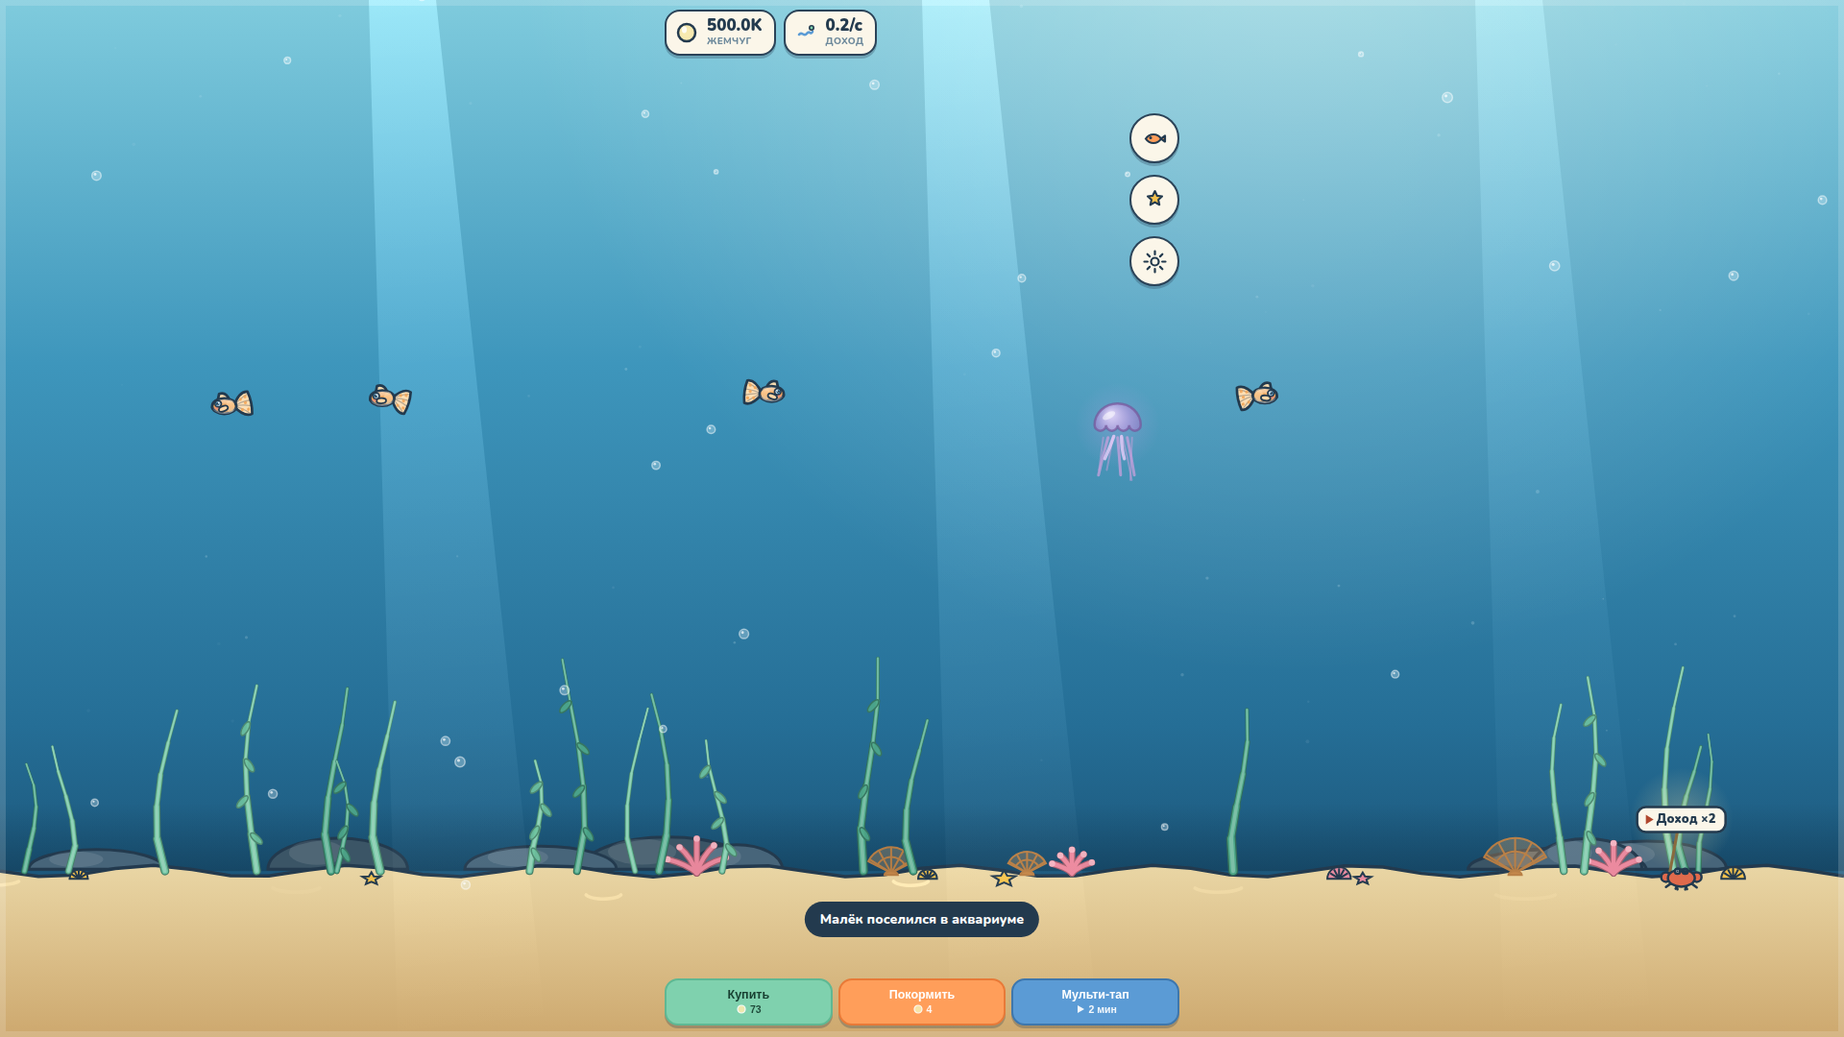
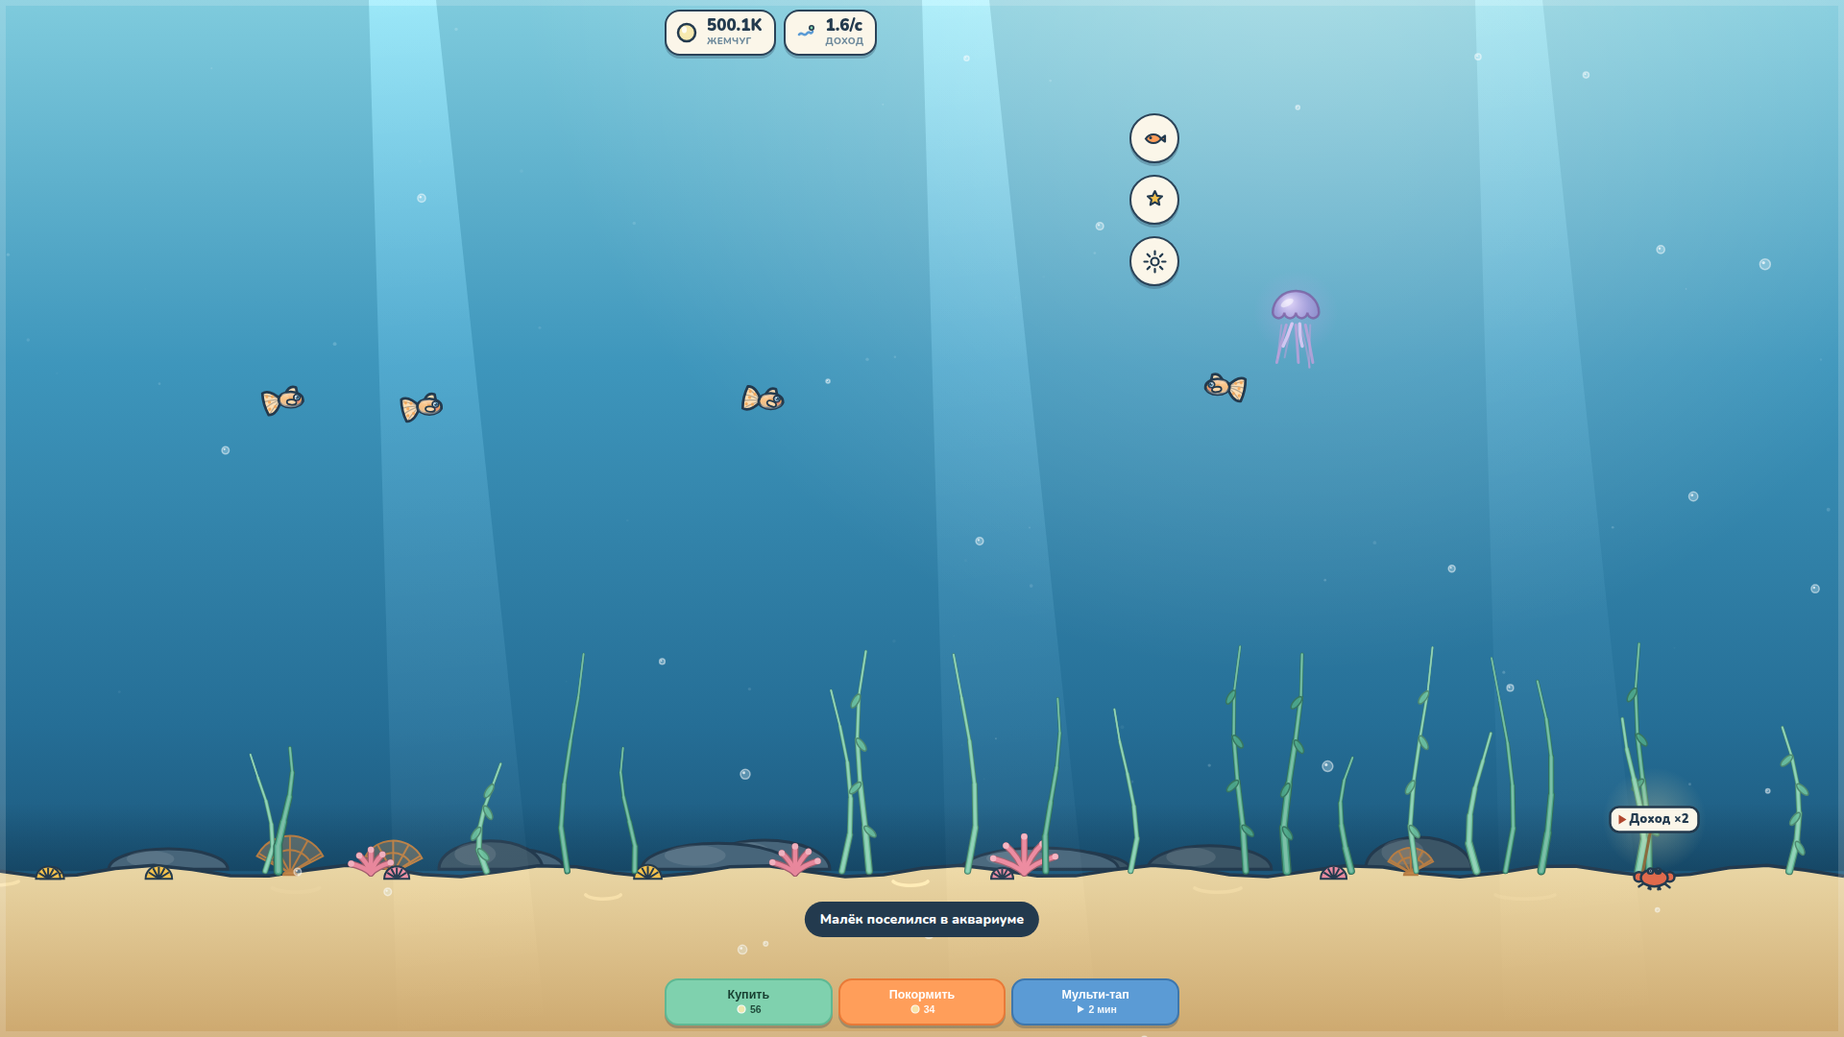
Аквариум: мягкая шкала ценности и офлайн-доход
- ценность видов растёт ×1.2 за ступень вместо ×1.6: гуппи даёт 10 за
  тап, иглобрюх ~1978 — числа остаются читаемыми и не уходят в миллионы
  (было 1 … 2 270 000). Цена малька пересчитана под новую шкалу:
  40 × 1.55^вид × 1.12^куплено
- пассивный доход теперь копится, пока игра закрыта: при возвращении
  начисляется накопленное за время отсутствия с потолком в 4 часа,
  игрок видит тост «Пока вас не было, рыбки накопили: +N»
- сейв форсится при сворачивании вкладки и уходе со страницы, чтобы
  момент выхода фиксировался точно
- тесты (60 проверок) покрывают мягкость шкалы, начисление за 2 часа
  и срабатывание потолка; тексты карточки обновлены

Мерж остаётся смыслом игры: это единственный способ ОТКРЫТЬ новый вид,
докупать в магазине можно только уже открытые.

Claude-Session: https://claude.ai/code/session_01E1W4bJFq3d3FdtAVHT6PQt

diff --git a/index.html b/index.html
@@ -184,7 +184,7 @@
 // ============================================================
 const SAVE_KEY = "cozy_aquarium_v1";        // GAME: уникальный ключ сейва
 const LB_NAME  = "species";                  // техимя лидерборда (рекорд = число видов)
-let ysdk=null, player=null, lb=null, saveT=0, booted=false;
+let ysdk=null, player=null, lb=null, saveT=0, booted=false, offlineGain=0;
 
 // ---------- i18n (авто-язык через SDK, урок модерации п.2.14) ----------
 function lang(){
@@ -226,6 +226,7 @@ const STR = {
   upPlant:{ru:"Водоросли",en:"Water plants"}, upPlantD:{ru:"−5% к цене мальков",en:"−5% fry price"},
   ipsUnit:{ru:"ж/с",en:"p/s"},
   daily:{ru:"Ежедневный подарок:",en:"Daily gift:"},
+  offline:{ru:"Пока вас не было, рыбки накопили:",en:"While you were away the fish earned:"},
   x2got:{ru:"Доход удвоен на 5 минут!",en:"Income doubled for 5 min!"},
   cooldown:{ru:"Ещё рано — подожди",en:"Not ready yet"},
 };
@@ -238,36 +239,36 @@ const LEVELS = [
   // beh — характер: dart (снуёт), school (стайная), calm, slow, hover (зависает),
   // bottom (у дна), glass (ползёт по дну/стеклу), drift (медленно дрейфует)
   // depth — любимая глубина 0 (у поверхности) .. 1 (у дна)
-  {ru:'Гуппи',            en:'Guppy',            c1:'#F2A65A', c2:'#FFDDAF', shape:'guppy',   beh:'calm',   depth:0.25, tap:1,       grow:5},
-  {ru:'Кардинал',         en:'White Cloud',      c1:'#8FB6C9', c2:'#F2846A', shape:'danio',   beh:'school', depth:0.30, tap:2,       grow:7},
-  {ru:'Неон',             en:'Neon Tetra',       c1:'#3BA7D6', c2:'#F25C69', shape:'neon',    beh:'school', depth:0.38, tap:4,       grow:9},
-  {ru:'Данио-рерио',      en:'Zebra Danio',      c1:'#C9D6E0', c2:'#3E6E9E', shape:'danio',   beh:'dart',   depth:0.20, tap:7,       grow:11},
-  {ru:'Пецилия',          en:'Platy',            c1:'#F2762E', c2:'#FFCF9E', shape:'guppy',   beh:'calm',   depth:0.35, tap:12,      grow:13},
-  {ru:'Меченосец',        en:'Swordtail',        c1:'#E8453C', c2:'#FFD9A0', shape:'sword',   beh:'calm',   depth:0.32, tap:20,      grow:16},
-  {ru:'Моллинезия',       en:'Molly',            c1:'#4A4A57', c2:'#9AA0AC', shape:'molly',   beh:'calm',   depth:0.40, tap:34,      grow:19},
-  {ru:'Тернеция',         en:'Black Tetra',      c1:'#6B6E82', c2:'#2E3140', shape:'tetra',   beh:'school', depth:0.42, tap:56,      grow:22},
-  {ru:'Расбора',          en:'Harlequin Rasbora',c1:'#E4A05C', c2:'#3A2F44', shape:'tetra',   beh:'school', depth:0.34, tap:92,      grow:25},
-  {ru:'Барбус',           en:'Tiger Barb',       c1:'#E8B44A', c2:'#2E2A33', shape:'barb',    beh:'dart',   depth:0.45, tap:150,     grow:29},
-  {ru:'Золотая рыбка',    en:'Goldfish',         c1:'#FF8C42', c2:'#FFC38A', shape:'gold',    beh:'slow',   depth:0.50, tap:245,     grow:33},
-  {ru:'Гурами',           en:'Pearl Gourami',    c1:'#B9A7C4', c2:'#E8D6B0', shape:'gourami', beh:'slow',   depth:0.30, tap:400,     grow:38},
-  {ru:'Петушок',          en:'Betta',            c1:'#C2384F', c2:'#5B7FD1', shape:'betta',   beh:'hover',  depth:0.28, tap:650,     grow:43},
-  {ru:'Коридорас',        en:'Corydoras',        c1:'#C4B49A', c2:'#6E5F4E', shape:'cory',    beh:'bottom', depth:0.95, tap:1050,    grow:48},
-  {ru:'Анциструс',        en:'Bristlenose Pleco',c1:'#4E4A42', c2:'#8C8578', shape:'pleco',   beh:'glass',  depth:0.97, tap:1700,    grow:54},
-  {ru:'Боция-клоун',      en:'Clown Loach',      c1:'#F2A03C', c2:'#2E2A33', shape:'loach',   beh:'bottom', depth:0.88, tap:2750,    grow:60},
-  {ru:'Апистограмма',     en:'Apistogramma',     c1:'#F2C14E', c2:'#3E7CC4', shape:'cichlid', beh:'calm',   depth:0.62, tap:4400,    grow:67},
-  {ru:'Скалярия',         en:'Angelfish',        c1:'#F0E6C4', c2:'#4A6377', shape:'angel',   beh:'slow',   depth:0.45, tap:7100,    grow:74},
-  {ru:'Дискус',           en:'Discus',           c1:'#E8734A', c2:'#3E7CC4', shape:'discus',  beh:'slow',   depth:0.50, tap:11500,   grow:82},
-  {ru:'Цихлида-попугай',  en:'Blood Parrot',     c1:'#F2603C', c2:'#FFB08A', shape:'parrot',  beh:'calm',   depth:0.58, tap:18500,   grow:90},
-  {ru:'Оскар',            en:'Oscar',            c1:'#3E3A38', c2:'#E8873C', shape:'oscar',   beh:'slow',   depth:0.60, tap:30000,   grow:99},
-  {ru:'Сомик-таракатум',  en:'Hoplo Catfish',    c1:'#8A7358', c2:'#CBB89B', shape:'cat',     beh:'bottom', depth:0.92, tap:48000,   grow:108},
-  {ru:'Рыба-клоун',       en:'Clownfish',        c1:'#FF7A2E', c2:'#FFFFFF', shape:'clown',   beh:'hover',  depth:0.55, tap:78000,   grow:118},
-  {ru:'Рыба-хирург',      en:'Blue Tang',        c1:'#3E7CC4', c2:'#F2C14E', shape:'tang',    beh:'calm',   depth:0.48, tap:126000,  grow:128},
-  {ru:'Рыба-бабочка',     en:'Butterflyfish',    c1:'#F2D24E', c2:'#2E3140', shape:'butterfly',beh:'calm',  depth:0.40, tap:205000,  grow:139},
-  {ru:'Мавританский идол',en:'Moorish Idol',     c1:'#F5F0DC', c2:'#2E3140', shape:'idol',    beh:'drift',  depth:0.44, tap:330000,  grow:150},
-  {ru:'Рыба-ангел',       en:'Emperor Angelfish',c1:'#3B5EA8', c2:'#F2C14E', shape:'emperor', beh:'slow',   depth:0.52, tap:535000,  grow:162},
-  {ru:'Спинорог',         en:'Triggerfish',      c1:'#4E8C7A', c2:'#F2E2B0', shape:'trigger', beh:'dart',   depth:0.56, tap:865000,  grow:175},
-  {ru:'Крылатка',         en:'Lionfish',         c1:'#C4442E', c2:'#F5EAD6', shape:'lion',    beh:'hover',  depth:0.66, tap:1400000, grow:188},
-  {ru:'Иглобрюх',         en:'Pufferfish',       c1:'#C7D66B', c2:'#EEF5C6', shape:'puffer',  beh:'drift',  depth:0.70, tap:2270000, grow:200},
+  {ru:'Гуппи',            en:'Guppy',            c1:'#F2A65A', c2:'#FFDDAF', shape:'guppy',   beh:'calm',   depth:0.25, tap:10,        grow:5},
+  {ru:'Кардинал',         en:'White Cloud',      c1:'#8FB6C9', c2:'#F2846A', shape:'danio',   beh:'school', depth:0.30, tap:12,        grow:7},
+  {ru:'Неон',             en:'Neon Tetra',       c1:'#3BA7D6', c2:'#F25C69', shape:'neon',    beh:'school', depth:0.38, tap:14,        grow:9},
+  {ru:'Данио-рерио',      en:'Zebra Danio',      c1:'#C9D6E0', c2:'#3E6E9E', shape:'danio',   beh:'dart',   depth:0.20, tap:17,        grow:11},
+  {ru:'Пецилия',          en:'Platy',            c1:'#F2762E', c2:'#FFCF9E', shape:'guppy',   beh:'calm',   depth:0.35, tap:21,        grow:13},
+  {ru:'Меченосец',        en:'Swordtail',        c1:'#E8453C', c2:'#FFD9A0', shape:'sword',   beh:'calm',   depth:0.32, tap:25,        grow:16},
+  {ru:'Моллинезия',       en:'Molly',            c1:'#4A4A57', c2:'#9AA0AC', shape:'molly',   beh:'calm',   depth:0.40, tap:30,        grow:19},
+  {ru:'Тернеция',         en:'Black Tetra',      c1:'#6B6E82', c2:'#2E3140', shape:'tetra',   beh:'school', depth:0.42, tap:36,        grow:22},
+  {ru:'Расбора',          en:'Harlequin Rasbora',c1:'#E4A05C', c2:'#3A2F44', shape:'tetra',   beh:'school', depth:0.34, tap:43,        grow:25},
+  {ru:'Барбус',           en:'Tiger Barb',       c1:'#E8B44A', c2:'#2E2A33', shape:'barb',    beh:'dart',   depth:0.45, tap:52,        grow:29},
+  {ru:'Золотая рыбка',    en:'Goldfish',         c1:'#FF8C42', c2:'#FFC38A', shape:'gold',    beh:'slow',   depth:0.50, tap:62,        grow:33},
+  {ru:'Гурами',           en:'Pearl Gourami',    c1:'#B9A7C4', c2:'#E8D6B0', shape:'gourami', beh:'slow',   depth:0.30, tap:74,        grow:38},
+  {ru:'Петушок',          en:'Betta',            c1:'#C2384F', c2:'#5B7FD1', shape:'betta',   beh:'hover',  depth:0.28, tap:89,        grow:43},
+  {ru:'Коридорас',        en:'Corydoras',        c1:'#C4B49A', c2:'#6E5F4E', shape:'cory',    beh:'bottom', depth:0.95, tap:107,        grow:48},
+  {ru:'Анциструс',        en:'Bristlenose Pleco',c1:'#4E4A42', c2:'#8C8578', shape:'pleco',   beh:'glass',  depth:0.97, tap:128,        grow:54},
+  {ru:'Боция-клоун',      en:'Clown Loach',      c1:'#F2A03C', c2:'#2E2A33', shape:'loach',   beh:'bottom', depth:0.88, tap:154,        grow:60},
+  {ru:'Апистограмма',     en:'Apistogramma',     c1:'#F2C14E', c2:'#3E7CC4', shape:'cichlid', beh:'calm',   depth:0.62, tap:185,        grow:67},
+  {ru:'Скалярия',         en:'Angelfish',        c1:'#F0E6C4', c2:'#4A6377', shape:'angel',   beh:'slow',   depth:0.45, tap:222,        grow:74},
+  {ru:'Дискус',           en:'Discus',           c1:'#E8734A', c2:'#3E7CC4', shape:'discus',  beh:'slow',   depth:0.50, tap:266,        grow:82},
+  {ru:'Цихлида-попугай',  en:'Blood Parrot',     c1:'#F2603C', c2:'#FFB08A', shape:'parrot',  beh:'calm',   depth:0.58, tap:319,        grow:90},
+  {ru:'Оскар',            en:'Oscar',            c1:'#3E3A38', c2:'#E8873C', shape:'oscar',   beh:'slow',   depth:0.60, tap:383,        grow:99},
+  {ru:'Сомик-таракатум',  en:'Hoplo Catfish',    c1:'#8A7358', c2:'#CBB89B', shape:'cat',     beh:'bottom', depth:0.92, tap:460,        grow:108},
+  {ru:'Рыба-клоун',       en:'Clownfish',        c1:'#FF7A2E', c2:'#FFFFFF', shape:'clown',   beh:'hover',  depth:0.55, tap:552,        grow:118},
+  {ru:'Рыба-хирург',      en:'Blue Tang',        c1:'#3E7CC4', c2:'#F2C14E', shape:'tang',    beh:'calm',   depth:0.48, tap:662,        grow:128},
+  {ru:'Рыба-бабочка',     en:'Butterflyfish',    c1:'#F2D24E', c2:'#2E3140', shape:'butterfly',beh:'calm',  depth:0.40, tap:795,        grow:139},
+  {ru:'Мавританский идол',en:'Moorish Idol',     c1:'#F5F0DC', c2:'#2E3140', shape:'idol',    beh:'drift',  depth:0.44, tap:954,        grow:150},
+  {ru:'Рыба-ангел',       en:'Emperor Angelfish',c1:'#3B5EA8', c2:'#F2C14E', shape:'emperor', beh:'slow',   depth:0.52, tap:1145,        grow:162},
+  {ru:'Спинорог',         en:'Triggerfish',      c1:'#4E8C7A', c2:'#F2E2B0', shape:'trigger', beh:'dart',   depth:0.56, tap:1374,        grow:175},
+  {ru:'Крылатка',         en:'Lionfish',         c1:'#C4442E', c2:'#F5EAD6', shape:'lion',    beh:'hover',  depth:0.66, tap:1648,        grow:188},
+  {ru:'Иглобрюх',         en:'Pufferfish',       c1:'#C7D66B', c2:'#EEF5C6', shape:'puffer',  beh:'drift',  depth:0.70, tap:1978,        grow:200},
 ];
 const MAXLVL = LEVELS.length-1;
 const LV = l => LEVELS[Math.max(0,Math.min(MAXLVL,l))];
@@ -296,6 +297,7 @@ const x2On      = () => Date.now() < S.x2Until;
 const multiOn   = () => Date.now() < S.multiUntil;
 const MULTI_MS  = 120000;                                // мульти-тап: 2 минуты после рекламы
 
+const OFFLINE_CAP = 4*3600;                              // офлайн-доход копится максимум за 4 часа
 const SAT_FULL  = 0.75;                                  // порог «сыта» — с него идёт ×2
 const SAT_DECAY = 0.0016;                                // сытость/сек: ×2 живёт ~2.5 мин, тает ~10 мин
 const EAT_CD    = 0.9;                                   // рыбка ест не чаще раза в 0.9 c
@@ -316,7 +318,7 @@ const ips       = () => ipsBase() * aerMult() * (x2On()?2:1);
 // цена малька растёт с каждой покупкой — главный сдерживающий фактор прогресса
 const priceMult = () => Math.max(0.5, 1 - 0.05*S.plant);
 // цена рыбы уровня L: дороже, чем получить её мержем — покупка это ускорение, а не замена
-const fishCostAt = lvl => Math.max(1, Math.floor(30 * Math.pow(1.85, lvl) * Math.pow(1.35, Math.max(0,S.bought-1)) * priceMult()));
+const fishCostAt = lvl => Math.max(1, Math.floor(40 * Math.pow(1.55, lvl) * Math.pow(1.12, Math.max(0,S.bought-1)) * priceMult()));
 const fishCost  = () => fishCostAt(0);
 const unlocked  = lvl => S.seen.includes(lvl);   // открытые виды доступны в магазине
 const foodCost  = () => Math.max(3, Math.ceil(tapBase()*0.85));
@@ -369,6 +371,9 @@ function restore(raw){
     }
     f.sat=Math.max(0, f.sat-SAT_DECAY*off);
   });
+  // офлайн-доход: рыбки приносили жемчуг, пока игра была закрыта (не дольше 4 часов)
+  offlineGain = Math.floor(ipsBase()*aerMult()*Math.min(off, OFFLINE_CAP));
+  if(offlineGain>0) S.coins += offlineGain;
   // старый сейв без обучения: опытному игроку обучение не показываем
   if(typeof S.tut!=='number') S.tut=(S.tank.length>1||S.coins>50)?3:0;
 }
@@ -409,8 +414,8 @@ function onFocusChange(hidden){
   if(hidden){ pauseAudio(); gameplayStop(); }
   else { resumeAudio(); gameplayStart(); }
 }
-document.addEventListener('visibilitychange', ()=>onFocusChange(document.hidden));
-addEventListener('pagehide', ()=>onFocusChange(true));
+document.addEventListener('visibilitychange', ()=>{ onFocusChange(document.hidden); if(document.hidden && booted) persist(true); });
+addEventListener('pagehide', ()=>{ onFocusChange(true); if(booted) persist(true); });
 addEventListener('pageshow', ()=>onFocusChange(false));
 
 // ---------- Лидерборд ----------
@@ -1999,7 +2004,7 @@ window.render_game_to_text = () => JSON.stringify({
   feed:S.feed, aer:S.aer, plant:S.plant,
   tapGain:tapGain(), best:S.best, x2:x2On(), multi:multiOn(),
   fishCost:fishCost(), foodCost:foodCost(), feedFill:feedFill(),
-  levels:LEVELS.length, musVol:S.musVol, sfxVol:S.sfxVol,
+  levels:LEVELS.length, musVol:S.musVol, sfxVol:S.sfxVol, offlineGain:offlineGain,
   shopLevels:LEVELS.map((lv,i)=>({lvl:i, open:unlocked(i), cost:fishCostAt(i)})),
   tank:S.tank.map(f=>({lvl:f.lvl, g:Math.round(f.g*1000)/1000, sat:Math.round(f.sat*1000)/1000})),
   grownCount:S.tank.filter(grown).length,
@@ -2057,6 +2062,7 @@ function boot(raw){
   cv.addEventListener('pointermove', e=>{ addTrail(e.clientX, e.clientY); onMove(e); });
   cv.addEventListener('pointerup', onUp);
   cv.addEventListener('pointercancel', ()=>{ dragSw=null; });
+  if(offlineGain>0) setTimeout(()=>toast(T("offline")+" +"+fmt(offlineGain)), 1200);
   checkDaily();
   startMusic();
   setInterval(()=>refreshHud(), 1000); // обновляет таймер ×2 и цены

diff --git a/store-assets/CONSOLE-FIELDS.md b/store-assets/CONSOLE-FIELDS.md
@@ -73,7 +73,7 @@
 Живой подводный мир — лучи света, водоросли, кораллы, медуза и краб на дне — успокаивает и радует.
 ```
 
-### Как играть (989/1000)
+### Как играть (997/1000)
 
 ```
 1. Тапайте по рыбке — она приносит жемчуг. Тап по пустой воде дохода не даёт, только рябь.
@@ -84,9 +84,9 @@
 
 4. «Покормить» бросает корм: рыбки едят не спеша. Когда зелёная шкала дойдёт до золотой риски, рыбка сыта — платит вдвое больше за тап и растёт быстрее. Сытость постепенно тает.
 
-5. «Мульти-тап» после видео две минуты собирает жемчуг со всех рыбок любым тапом. А краб на дне иногда выносит табличку «Доход ×2» — тапните по нему, чтобы удвоить фоновый доход.
+5. «Мульти-тап» после видео две минуты собирает жемчуг со всех рыбок. А краб на дне иногда выносит табличку «Доход ×2» — тапните по нему, чтобы удвоить фоновый доход.
 
-6. Боковые кнопки — магазин, улучшения и настройки (громкость и язык).
+6. Боковые кнопки — магазин, улучшения и настройки. Пока игра закрыта, рыбки копят жемчуг.
 ```
 
 ---
@@ -127,7 +127,7 @@ Upgrade the tank: rich food is more filling, the aerator raises background incom
 A living underwater world — light rays, plants, corals, a jellyfish and a crab on the sand — keeps things calm and cheerful.
 ```
 
-### Как играть (991/1000)
+### Как играть (1000/1000)
 
 ```
 1. Tap a fish — it pays out pearls. Tapping empty water gives nothing, just a ripple.
@@ -138,7 +138,7 @@ A living underwater world — light rays, plants, corals, a jellyfish and a crab
 
 4. "Feed" drops food and fish eat unhurriedly. Once the green bar reaches the golden mark the fish is full — double pearls per tap and faster growth. Satiety slowly fades.
 
-5. "Multi-tap" after a video lets any tap collect from every fish for two minutes. The crab on the sand sometimes holds an "Income ×2" sign — tap him to double background income.
+5. "Multi-tap" after a video collects from every fish on any tap for two minutes. The crab sometimes holds an "Income ×2" sign — tap him to double background income.
 
-6. The side buttons open the shop, upgrades and settings (volume and language).
+6. The side buttons open the shop, upgrades and settings. Fish keep earning while the game is closed.
 ```
